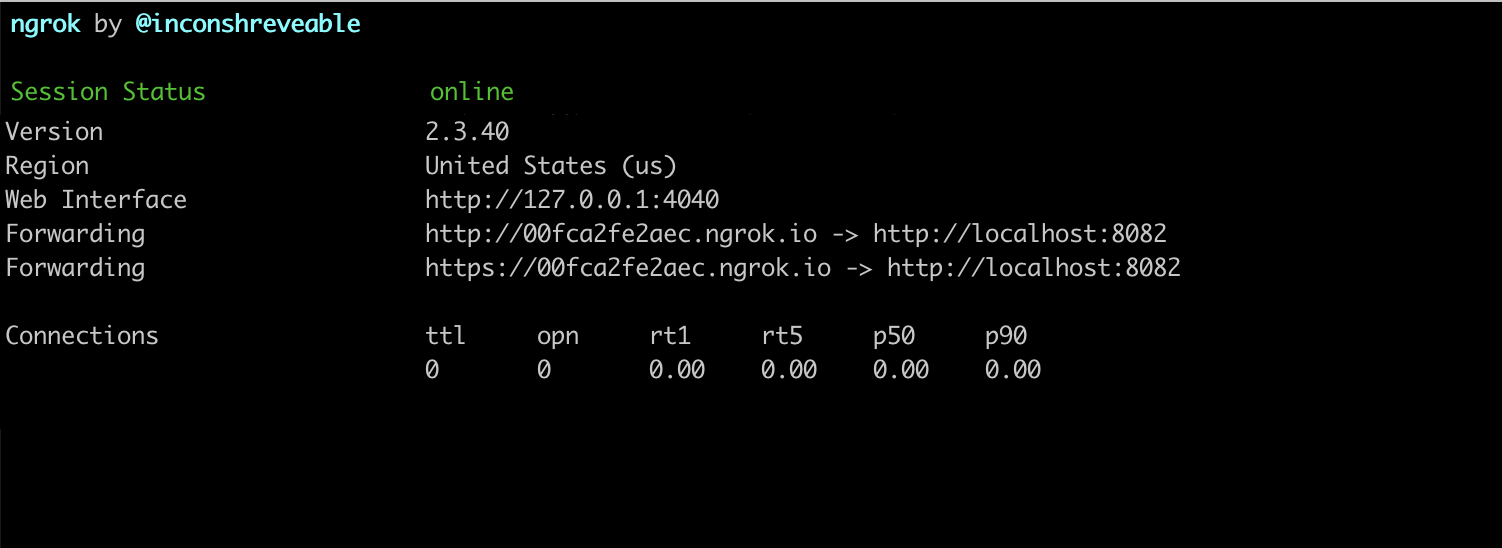
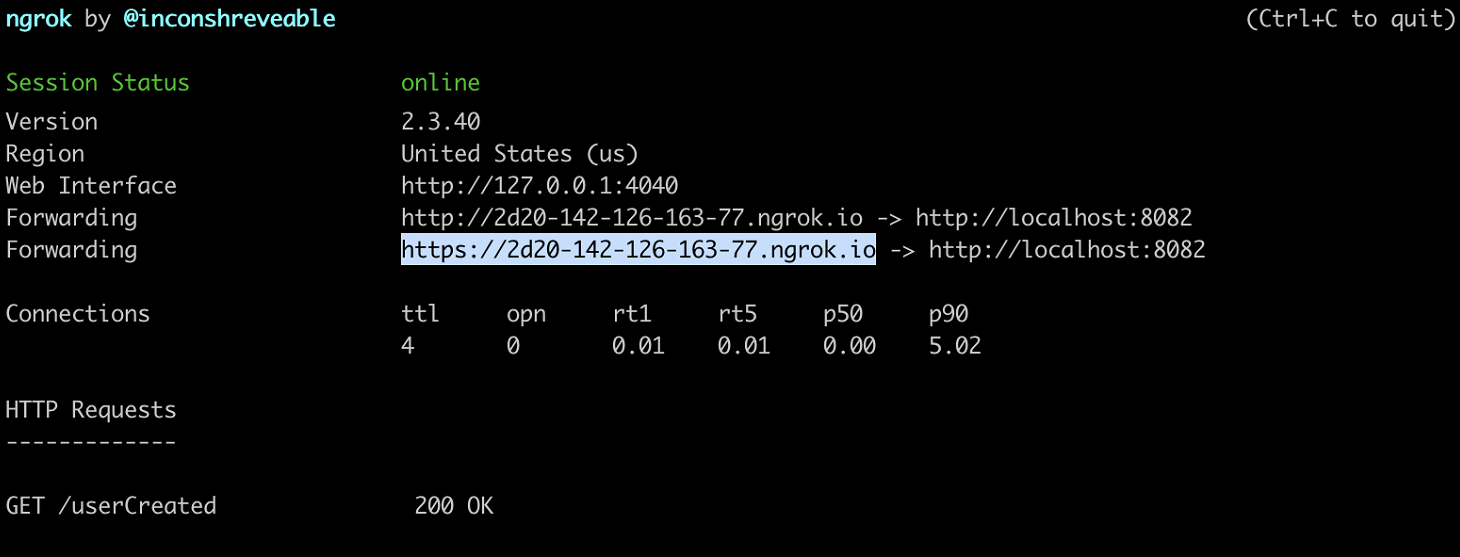
Adding and modifying images and minor text updates

diff --git a/packages/@okta/vuepress-site/docs/guides/event-hook-ngrok/main/index.md b/packages/@okta/vuepress-site/docs/guides/event-hook-ngrok/main/index.md
@@ -4,6 +4,8 @@ excerpt: How to demonstrate Event Hooks using ngrok to expose a local app to the
 layout: Guides
 ---
 
+<StackSelector class="cleaner-selector"/>
+
 This guide provides a working example of an Okta Event Hook. It uses the ngrok utility to expose a local application to the internet and receive and respond to Event Hook calls. Event Hooks are outbound calls from Okta that can notify your own software systems of events occurring in your Okta org. The ngrok utility enables the testing of Okta Event Hooks locally, rather than an internet-based production or test external service.
 
 ---
@@ -32,7 +34,7 @@ If you already have ngrok installed, move on to the next step! If not, follow th
 
 Some installation notes:
 
-* You do not need to have an account to install and run ngrok, but creating a free account provides more features as well as basic authentication.
+* You don't need to have an account to install and run ngrok, but creating a free account provides more features as well as basic authentication.
 * You can install ngrok directly in your project folder, as documented from the ngrok download page. Or you can install on your system's path directory to be able to run ngrok from any folder. Alternatively, you can install the executable in your favorite local folder, but you'll need the folder path when referencing the tool.
 
 ### Run ngrok
@@ -59,7 +61,7 @@ If you see the following content in your terminal, ngrok is running successfully
 
 ![A screen shot of a terminal that displays an ngrok session status, with online in green. The session status contains urls that tunnel into the local port.](/img/ngrok-and-event-hooks-session-status.png)
 
-> **Note:** Copy the forwarding URL that is available from the ngrok terminal session. For example, `https://00fca2fe2aec.ngrok.io`. You'll use this URL when setting up your Okta Event Hook.
+> **Note:** Copy the forwarding URL that is available from the ngrok terminal session. For example, `https://2d20-142-126-163-77.ngrok.io`. You'll use this URL when setting up your Okta Event Hook.
 
 See [ngrok](https://ngrok.com) or their [documentation](https://ngrok.com/docs) for further information.
 
@@ -73,7 +75,7 @@ Each call to your local application appears in the interface and includes the re
 
 ## Create a local application
 
-<StackSelector snippet="sample-app"/>
+<StackSelector snippet="sample-app" noSelector/>
 
 ## Create an Okta Event Hook
 
@@ -89,9 +91,7 @@ Create the Okta Event Hook to work with your local application, which can now be
 
 4. In the **Name** field, add a unique name for the Hook (in this example, "New User Event Hook").
 
-5. In the **URL** field, add your external service URL, including endpoint. For this example, use the code endpoint, `/userCreated` from `server.js` with the `https://` URL from the ngrok session. For example, your URL should appear similar to: `https://28333dd3ddf3.ngrok.io/userCreated`.
-
-![A screen shot highlighting the forwarding ngrok URL in the terminal](/img/ngrok-and-event-hooks-url.png)
+5. In the **URL** field, add your external service URL, including endpoint. For this example, use the code endpoint, `/userCreated` from `server.js` with the `https://` URL from the ngrok session. For example, your URL should appear similar to: `https://2d20-142-126-163-77.ngrok.io/userCreated`.
 
 6. Include authentication field and secret. In this example, our `server.js` code uses Basic Authentication:
 
@@ -103,7 +103,7 @@ Create the Okta Event Hook to work with your local application, which can now be
 
 8. Click **Save & Continue**.
 
-9. Complete the one-time verification Okta call at this time or verify the Event Hook later. You need to have both your ngrok session and local application running to verify the initial Okta call.
+9. With your ngrok session and local application running, complete the one-time verification Okta call at this time or verify the Event Hook later.
 
 ### Verify the Event Hook
 
@@ -119,7 +119,7 @@ or
 
 The Event Hook is now set up with a status of **VERIFIED** and is ready to send Event Hook calls to your external service.
 
->**Note:** A successful Event Hook verification also indicates your local application is working with the ngrok session! Review the ngrok terminal for details on the first `GET` call to your local application.
+>**Note:** A successful Event Hook verification also indicates your local application is working with the ngrok session! Review the ngrok terminal or inspector interface for details on the first `GET` call to your local application.
 
 ## Preview, test, and review the Event Hook
 
@@ -138,9 +138,9 @@ To run a preview call of your Event Hook, sign in to your Okta org as the super 
 1. Locate the Event Hook you created during the set-up step. In this example, select `New User Event Hook` or the name you gave the Event Hook.
 1. Click the **Actions** menu for this hook, and select **Preview**.
 1. In the **Configure Event Hook request** section, select an event from the **Event Type** drop-down menu. In this example, there is only one: `User Created (user.lifecycle.create)`.
-1. The most recent event (in this case, a user created above) populates the **Preview & Deliver Event Hook** section with the JSON body of the Event Hook. You can also select an older event from the **System Log Event** drop-down menu. If no event is available, the JSON body populates with sample data.
+1. The most recent event (in this case, user John Doe created above) populates the **Preview & Deliver Event Hook** section with the JSON body of the Event Hook. You can also select an older event from the **System Log Event** drop-down menu. If no event is available, the JSON body populates with sample data.
 
-    > **Note:** If you are using the preview sample data, you must edit the preview to add a `target` value, including an email. For example, `"target": [{ "email": "john.doe@example.com"}]`. Otherwise, the sample application code throws an error if the value in `target` property is `null`.
+    > **Note:** If you are using the preview sample data, you must edit the preview to add a `target` value, including an email using the `alternateId` property. For example, `"target": [{ "alternateId": "john.doe@example.com"}]`. Otherwise, the sample application code throws an error if the value in `target` property is `null`.
 
 1. Ensure that both your ngrok session and local sample application are running.
 
@@ -150,9 +150,9 @@ To run a preview call of your Event Hook, sign in to your Okta org as the super 
 
      `The user john.doe@example.com has been added to the Okta org!`
 
-1. Check your ngrok terminal session. Each call recorded by ngrok appears in the terminal.
+1. Check your ngrok inspection interface (`http://localhost:4040`). Each call recorded by ngrok appears in the interface from which you can review the complete call response body, header, and other details.
 
-    ![A screen shot of the ngrok terminal that includes a simple line item of a call.](/img/ngrok-and-event-hooks-terminal-calls.png)
+    ![A screen shot of the ngrok inspection interface that includes details of a call.](/img/ngrok-and-event-hooks-web-interface-small.png)
 
 ### Test
 
@@ -168,9 +168,10 @@ To run a test of your Event Hook:
 1. Navigate back to your local application's console. You should see the following output to the console:
 
     `The user jane.doe@example.com has been added to the Okta org!`
-1. Check your ngrok terminal session. Each call recorded by ngrok appears in the terminal.
 
-    ![A screen shot of the ngrok terminal that includes a simple line item of a call.](/img/ngrok-and-event-hooks-terminal-calls.png)
+1. Check your ngrok inspection interface (`http://localhost:4040`). Each call recorded by ngrok appears in the interface from which you can review the complete call response body, header, and other details.
+
+    ![A screen shot of the ngrok inspection interface that includes details of a call.](/img/ngrok-and-event-hooks-web-interface-small.png)
 
 ## See also
 
